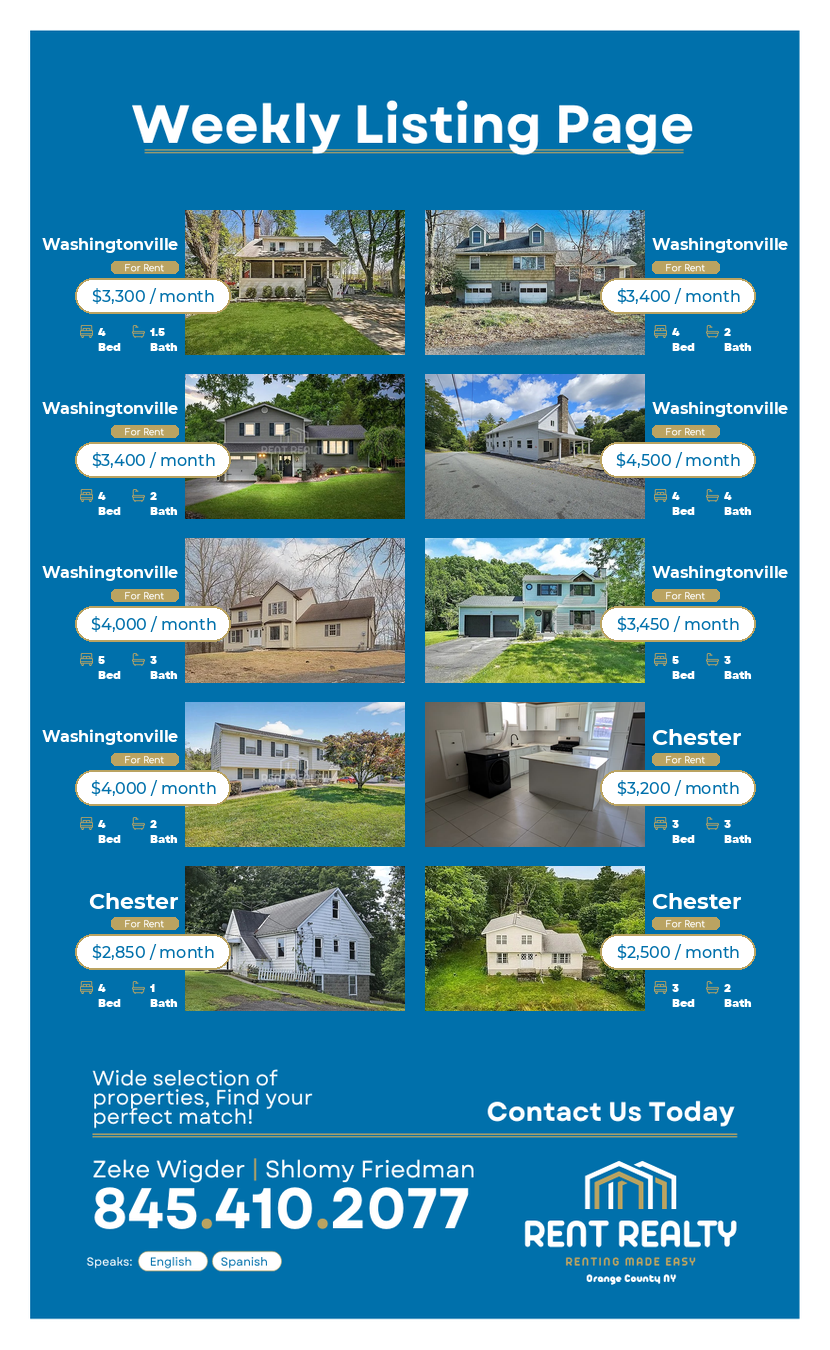
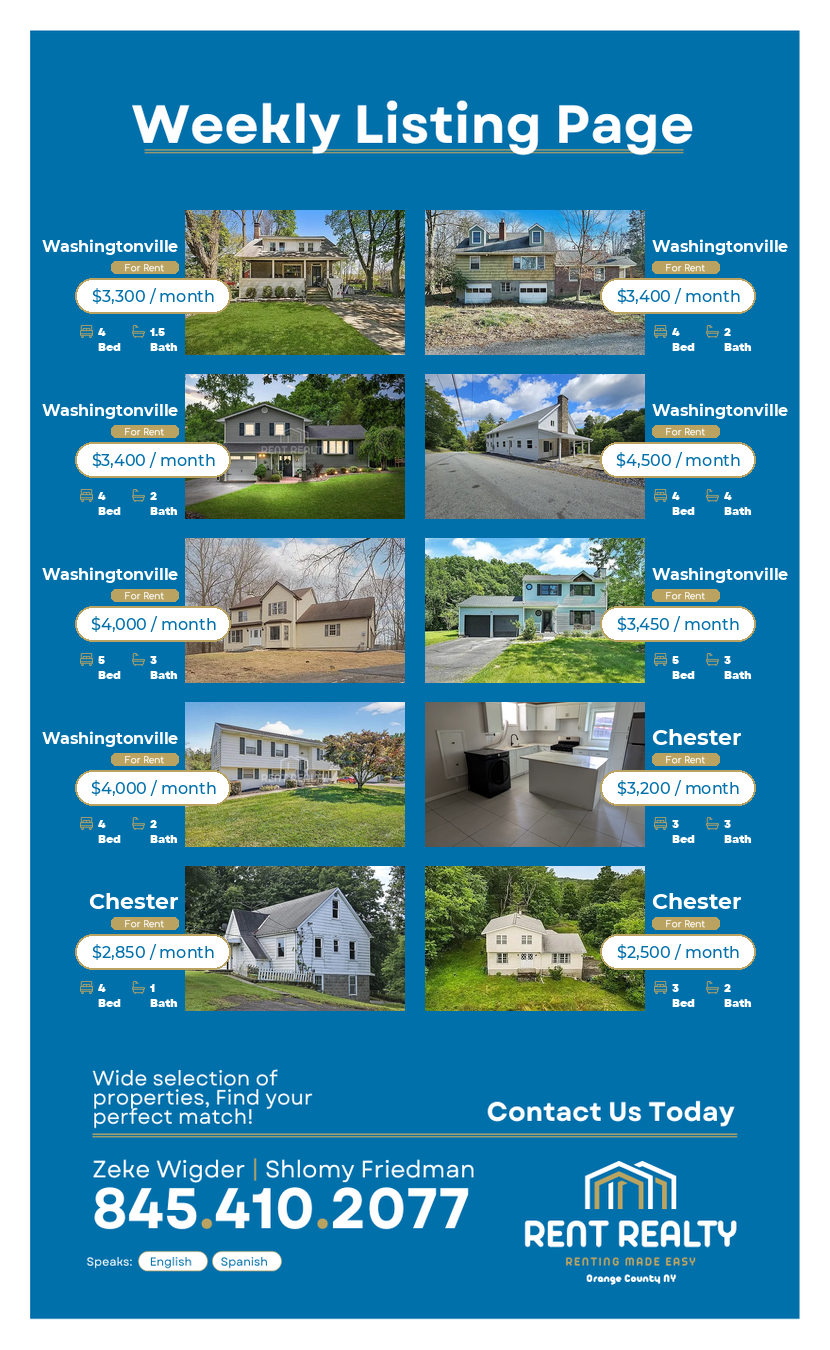
Queda a la espera un mejor Readme, modificaciones hasta el momento funcionales con las pruebas necesarias

diff --git a/utils/flyer.py b/utils/flyer.py
@@ -1923,18 +1923,81 @@ def dibujar_location(
         #
         # ====================================================
 
-        draw.text(
-            (
-                line_x,
-                line_y
-            ),
-            linea,
-            font=font,
-            fill=hex_to_rgb(
-                LOCATION_TEXT_COLOR
-            ),
-            anchor="lt"
-        )
+        # ====================================================
+        # AJUSTE VERTICAL SEGÚN CANTIDAD DE LÍNEAS
+        # ====================================================
+
+        if cantidad_lineas == 1:
+
+            # Mantener fijo el centro vertical del texto,
+            # aunque cambie el tamaño de fuente.
+
+            bbox = draw.textbbox(
+                (
+                    0,
+                    0
+                ),
+                linea,
+                font=font
+            )
+
+            text_height = (
+                bbox[3]
+                - bbox[1]
+            )
+
+            # Altura de referencia usando el tamaño normal
+            font_referencia = cargar_fuente(
+                font_location,
+                FONT_SIZE_LOCATION
+            )
+
+            bbox_referencia = draw.textbbox(
+                (
+                    0,
+                    0
+                ),
+                linea,
+                font=font_referencia
+            )
+
+            altura_referencia = (
+                bbox_referencia[3]
+                - bbox_referencia[1]
+            )
+
+            ajuste_y = (
+                altura_referencia
+                - text_height
+            ) / 2
+
+            draw.text(
+                (
+                    line_x,
+                    line_y + ajuste_y
+                ),
+                linea,
+                font=font,
+                fill=hex_to_rgb(
+                    LOCATION_TEXT_COLOR
+                ),
+                anchor="lt"
+            )
+
+        else:
+
+            draw.text(
+                (
+                    line_x,
+                    line_y
+                ),
+                linea,
+                font=font,
+                fill=hex_to_rgb(
+                    LOCATION_TEXT_COLOR
+                ),
+                anchor="lt"
+            )
 
 
 # ============================================================
